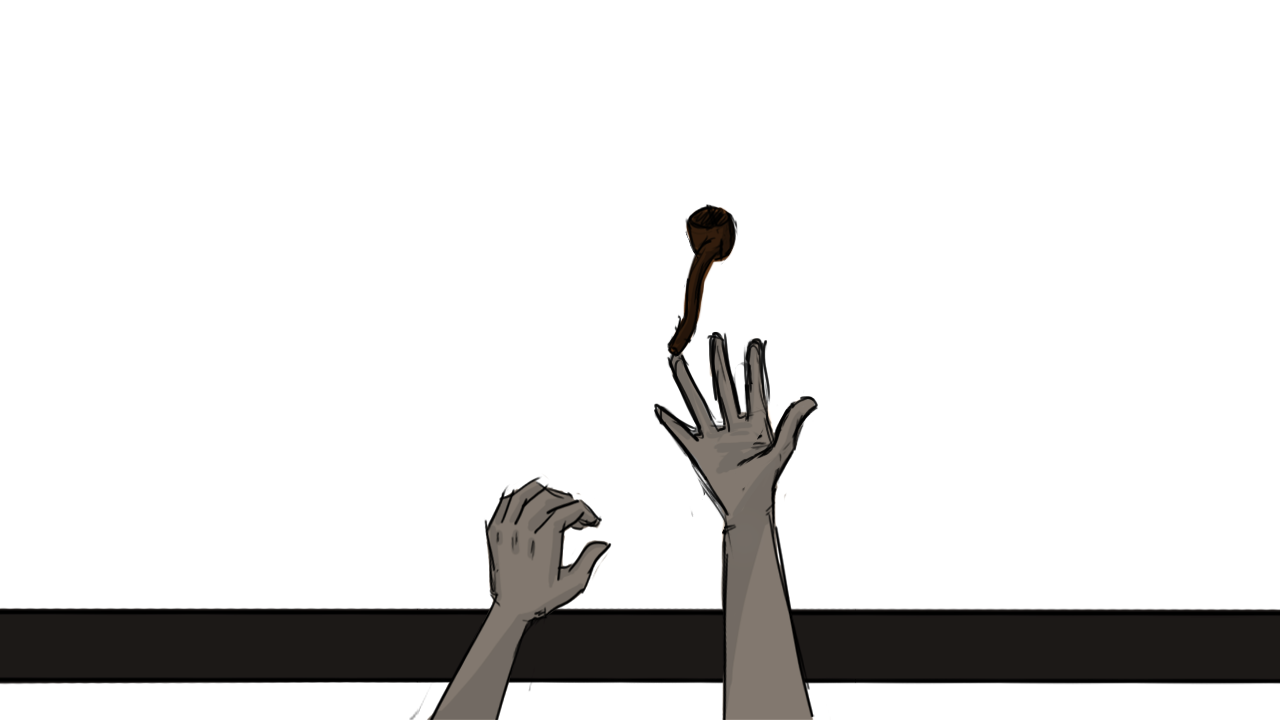
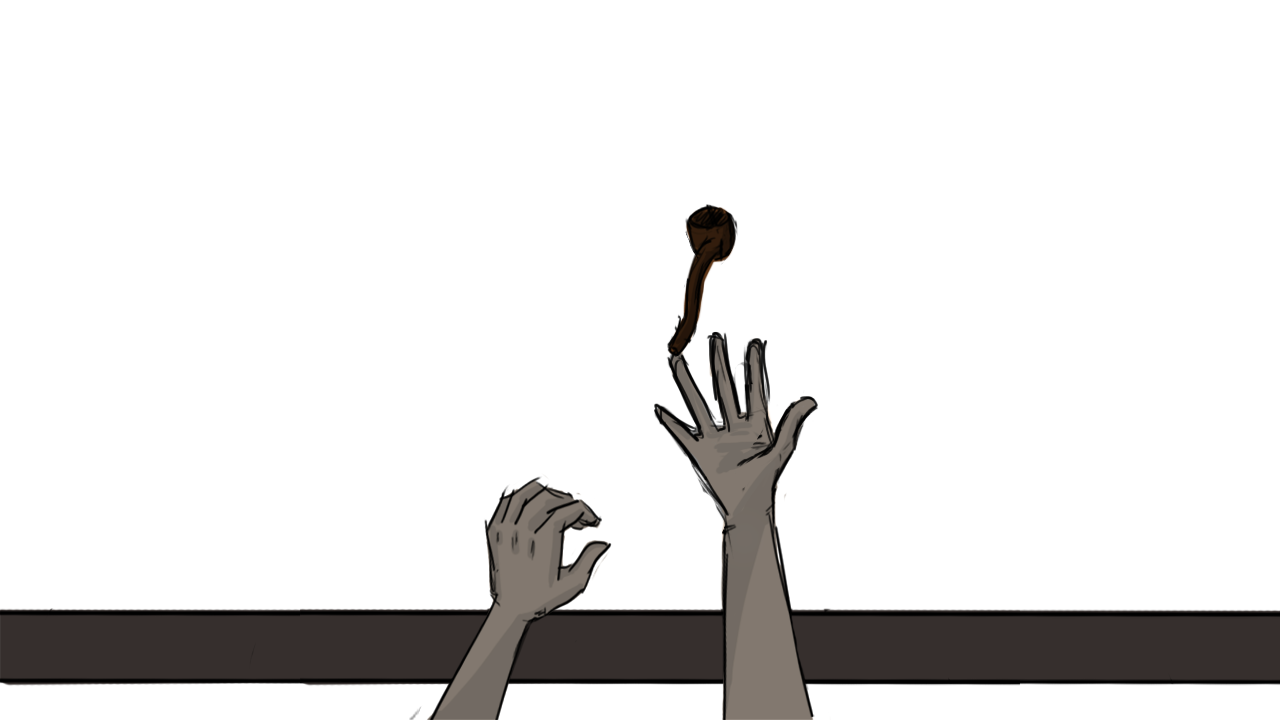
Replaces yacht railing images

Changed region(s): [[0.0, 0.825, 0.5625, 0.9778], [0.5938, 0.825, 1.0, 0.9778]]

diff --git a/style.css b/style.css
@@ -662,7 +662,7 @@ html {
 
 #imgBeforeHuntText7 {
     width:100%;
-    margin-top:30%;
+    margin-top:28%;
 }
 
 #imgBeforeHuntText8 {
@@ -678,7 +678,7 @@ html {
 
 #imgBeforeHuntText10 {
     width:100%;
-    margin-top:34%;
+    margin-top:40%;
 }
 
 #imgBeforeHuntText11 {
